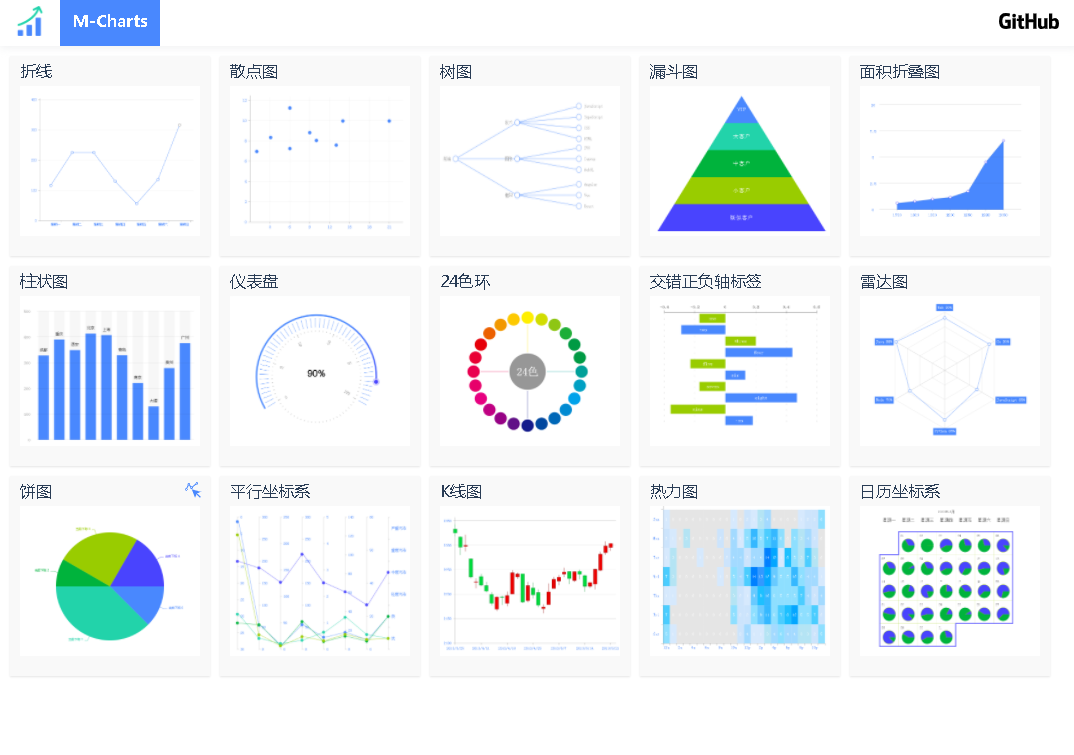
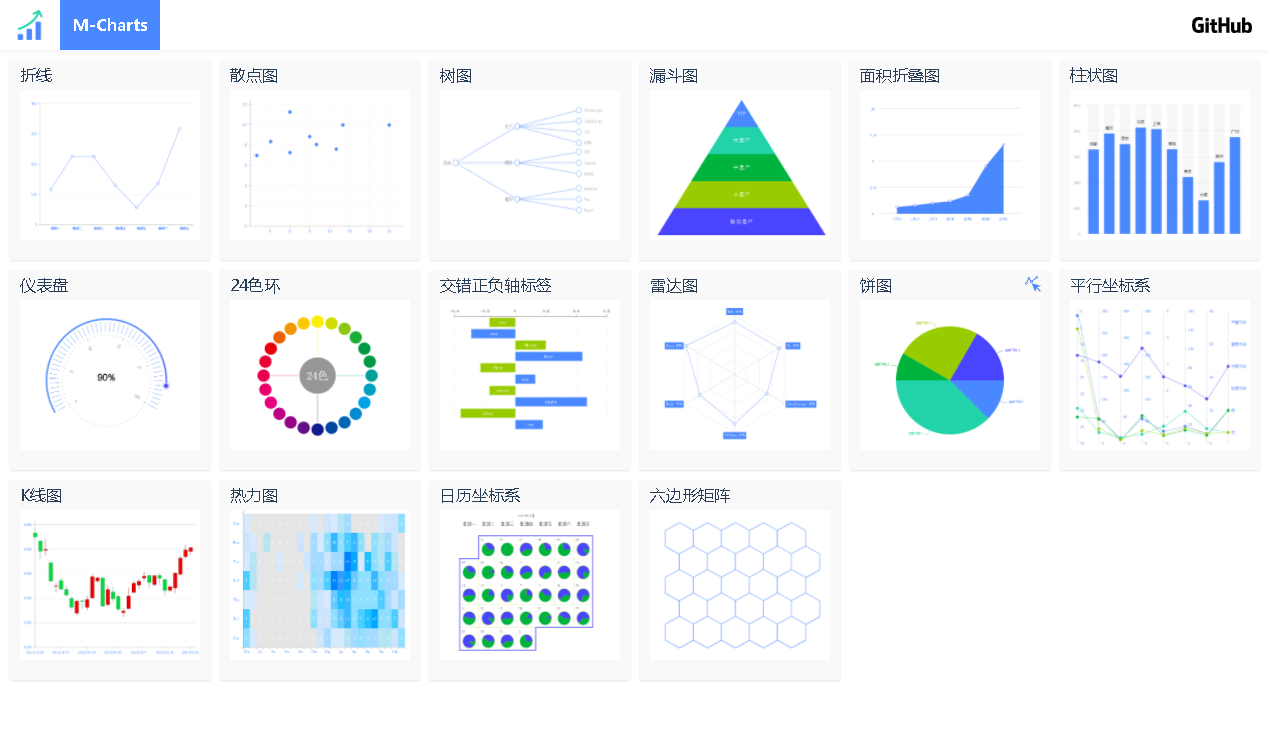
update 六边形矩阵

diff --git a/src/charts/shape/hexagon/hexagon.tsx b/src/charts/shape/hexagon/hexagon.tsx
@@ -35,26 +35,36 @@ class HexagonComponent extends React.Component {
             START_X: 100, // 起点X
             START_Y: 100, // 起点Y
             RADIUS:50, //半径
-            COLUMN:2 // 列数
+            COLUMN:5, // 列数
+            ROW:5 //
         }
     }
 
     drawInit() {
-        this.ctx.beginPath();
+        this.ctx.lineWidth = 3;
         this.ctx.fillStyle = '#ffffff';
         this.ctx.strokeStyle ='#4988FE';
-        this.ctx.lineWidth = 2;
-        for(let i=0;i<this.config.COLUMN;i++) {
-            let x = this.config.START_X + this.config.RADIUS * Math.cos(Math.PI /3) * i * 2;
-            let y = this.config.START_Y;
-            this.drawHeagon(x, y);
-        }
-
-        this.ctx.fill();
+        this.drawColumn();
     }
 
+    drawColumn() {
+        for(let i=0;i<this.config.ROW;i++) {
+            let x = i % 2 === 1 ? this.config.START_X + this.config.RADIUS * Math.cos(Math.PI /6) : this.config.START_X;
+            let y = this.config.START_Y + this.config.RADIUS * ( 1 + Math.sin(Math.PI /6)) * i ;
+            this.drawRow(x, y);
+        }
+    }
+
+    drawRow(startX:number, startY:number) {
+        for(let i=0;i<this.config.COLUMN;i++) {
+            let x = startX + this.config.RADIUS * Math.cos(Math.PI /6) * i * 2 ;
+            let y = startY;
+            this.drawHeagon(x, y);
+        }
+    }
 
     drawHeagon(x:number,y:number) {
+        this.ctx.beginPath();
         let angle = Math.PI / 3;
         let angle_begin = Math.PI / 6;
         let beginPoint_x:number = 0; 
@@ -76,6 +86,7 @@ class HexagonComponent extends React.Component {
             }
             this.ctx.stroke();
         }
+        this.ctx.fill();
     }
 
 

diff --git a/src/pages/charts-list/charts-list.tsx b/src/pages/charts-list/charts-list.tsx
@@ -19,6 +19,7 @@ let imgHeatmapCartesian = require('./../../assets/imgs/shape/heatmap-cartesian.p
 let imgCalendarCharts = require('./../../assets/imgs/shape/calendarCharts.png');
 let imgRingCharts = require('./../../assets/imgs/shape/ring.png');
 let imgBarNegative = require('./../../assets/imgs/shape/bar-negative.png');
+let imgHexagon = require('./../../assets/imgs/shape/hexagon.png');
 interface Charts {
     name: string, // 组件名称
     type: string, // 组件类型
@@ -107,7 +108,7 @@ class ChartsList extends React.Component<{}, object>  {
         {
             name:'六边形矩阵',
             type:'hexagon',
-            thumbnail: imgCalendarCharts
+            thumbnail: imgHexagon
         }
        
     ]

diff --git a/README.md b/README.md
@@ -41,7 +41,8 @@ npm run dev
 12. 热力图
 13. 日历坐标系
 14. 24色环
-14. 交错正负标签
+15. 交错正负标签
+16. 六边形矩阵
 ## TODO List 
 
 - 实现基础Chart Demo展示(Doing) 
